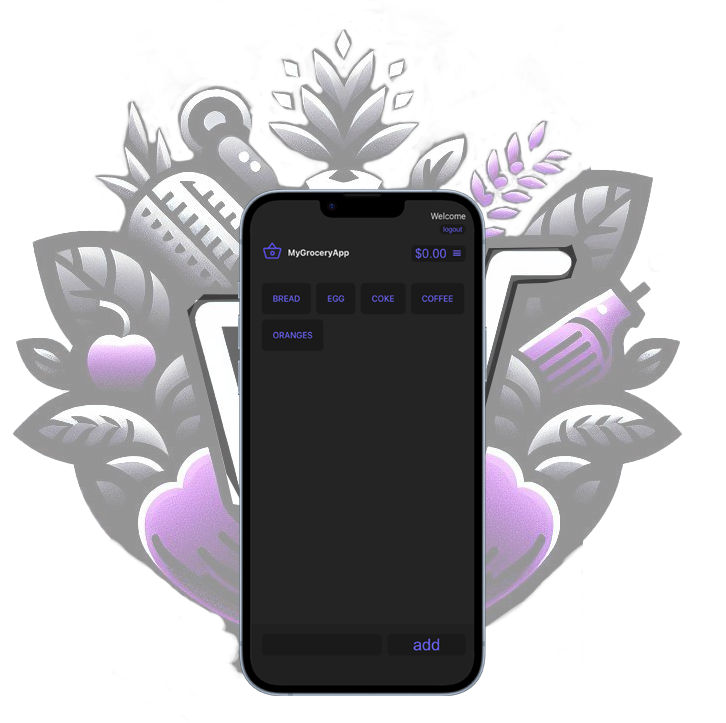
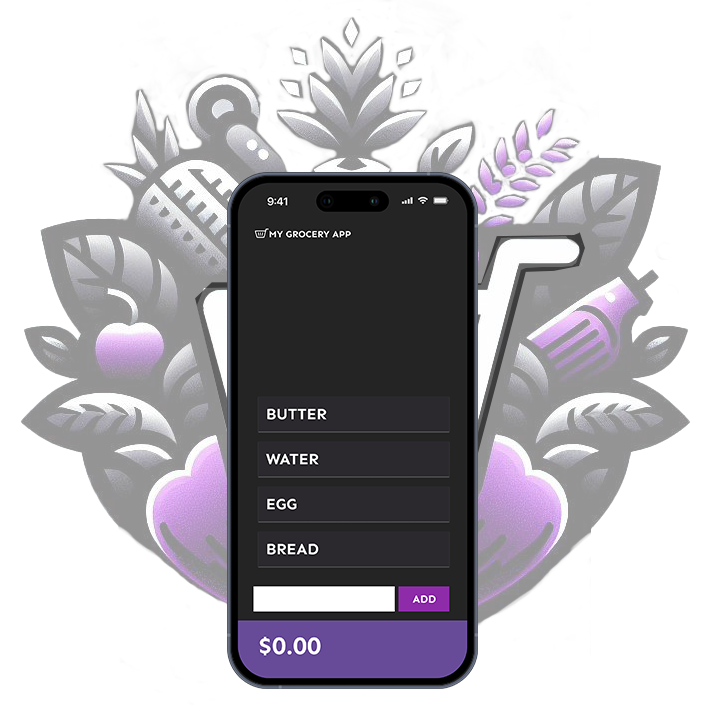
fix contact title and new image hero

diff --git a/.firebase/mygroceryapp-landing/hosting/index.html b/.firebase/mygroceryapp-landing/hosting/index.html
@@ -1,6 +1,6 @@
 <!DOCTYPE html><html lang="en"> <head><meta charset="UTF-8"><meta name="description" content="Astro description"><meta name="viewport" content="width=device-width, initial-scale=1.0, maximum-scale=1.0,user-scalable=0"><link rel="icon" type="image/svg+xml" href="/favicon.svg"><meta name="generator" content="Astro v4.1.1"><meta property="og:title" content="My Grocery App - Sign up for FREE"><meta property="og:type" content="article"><meta property="og:description" content="Simplify your small groceries."><meta property="og:image" content="https://mygroceryapp.ca/share-mygroceryapp.png"><meta property="og:url" content="http://mygroceryapp.ca"><meta name="twitter:card" content="My Grocery App - Simplify your small groceries."><title>My Grocery App</title><!-- MailerLite Universal --><!-- End MailerLite Universal --><!-- Google tag (gtag.js) --><script async src="https://www.googletagmanager.com/gtag/js?id=G-PNJFRG2QJF"></script><link rel="stylesheet" href="/_astro/index.UJHiFlKj.css" />
-<style>dialog[data-astro-cid-bbe6dxrz]::backdrop{background-color:#242424;opacity:.5}html{scroll-behavior:smooth}#back-btn[data-astro-cid-7a7bzblm]{cursor:pointer}
-</style><script type="module" src="/_astro/hoisted.C247LzEo.js"></script></head> <body>  <div class="bg-dark" id="mygroceryapp"> <header class="top-0 z-50 max-w-[1280px] xl:px-0 lg:px-4 m-auto " data-astro-cid-3ef6ksr2> <nav class="flex md:items-start items-center p-6 lg:px-8" aria-label="Global" data-astro-cid-3ef6ksr2> <div class="flex flex-1" data-astro-cid-3ef6ksr2> <a href="/" class="-m-1.5 p-1.5" data-astro-cid-3ef6ksr2> <span class="sr-only" data-astro-cid-3ef6ksr2>My Grocery App</span> <img src="/_astro/mygroceryapp.NL7Jfwwu_Z1AcUbO.webp" class="h-8 w-auto" alt="My Grocery App" data-astro-cid-3ef6ksr2 width="279" height="44" loading="lazy" decoding="async"> </a> </div> <div class="flex md:hidden" data-astro-cid-3ef6ksr2> <button type="button" class="-m-2.5 inline-flex items-center justify-center rounded-md p-2.5 text-gray-700" data-astro-cid-3ef6ksr2> <span class="sr-only" data-astro-cid-3ef6ksr2>Open main menu</span> <svg class="h-6 w-6" fill="none" viewBox="0 0 24 24" stroke-width="1.5" stroke="white" aria-hidden="true" data-astro-cid-3ef6ksr2> <path stroke-linecap="round" stroke-linejoin="round" d="M3.75 6.75h16.5M3.75 12h16.5m-16.5 5.25h16.5" data-astro-cid-3ef6ksr2></path> </svg> </button> </div> <!-- absolute z-20 md:relative md:block hidden top-20 md:top-auto bg-MGA-purple md:bg-transparent md:w-auto w-[200px] h-[200px] md:h-auto --> <div class="fixed hidden md:block md:relative bg-MGA-purple md:bg-transparent z-20 md:h-auto h-screen -top-[170px] md:top-0 md:opacity-100 opacity-80 md:pl-0 md:pr-0 md:py-0 md:mt-0 pl-20 pr-7 py-10 mt-60" id="menu-items" data-astro-cid-3ef6ksr2> <div class="md:flex-row md:text-auto text-right flex flex-col gap-x-12" data-astro-cid-3ef6ksr2> <a href="#about" class="text-xl mb-4 font-semibold leading-6 text-white md:normal-case uppercase" data-astro-cid-3ef6ksr2>About</a> <a href="#how-it-works" class="text-xl mb-4 font-semibold leading-6 text-white md:normal-case uppercase" data-astro-cid-3ef6ksr2>How it works</a> <a href="#roadmap" class="text-xl mb-4 font-semibold leading-6 text-white md:normal-case uppercase" data-astro-cid-3ef6ksr2>Roadmap</a> <a href="#contact" class="text-xl mb-4 font-semibold leading-6 text-white md:normal-case uppercase" data-astro-cid-3ef6ksr2>Contact Us</a> </div> </div> </nav> </header>  <div class="relative mt-10"> <div class="absolute inset-x-0 -top-420 -z-10 transform-gpu overflow-hidden blur-3xl sm:-top-80" aria-hidden="true"> <div class="relative left-[calc(50%-11rem)] aspect-[1155/678] w-[36.125rem] -translate-x-1/2 rotate-[30deg] bg-gradient-to-tr from-[#242424] to-MGA-purple opacity-20 sm:left-[calc(50%)] sm:w-[100rem]" style="clip-path: polygon(100%)"></div> </div> <div class="text-white left-[100px] m-auto lg:w-[1280px]" data-astro-cid-bbe6dxrz> <!-- HERO --> <div class="flex w-11/12 m-auto flex-col-reverse md:flex-row justify-center gap-x-20 md:gap-x-0 lg:gap-x-20" data-astro-cid-bbe6dxrz> <div class="hero-title self-center xl:max-w-[460px] max-w-[370px] md:max-w-[450px] z-10" data-astro-cid-bbe6dxrz> <h1 class="text-MGA-purple text-center md:text-left font-semibold text-3xl md:text-4xl lg:text-5xl uppercase backdrop-blur-sm drop-shadow-sm md:backdrop-none-sm md:drop-shadow-none" data-astro-cid-bbe6dxrz>my grocery app</h1> <p class="font-semibold text-center md:text-left md:text-4xl lg:text-5xl text-3xl" data-astro-cid-bbe6dxrz>simplify your grocery list.</p> <div class="flex mt-20" data-astro-cid-bbe6dxrz> <a href="#" id="action" class="bg-MGA-purple text-white rounded-full px-10 md:px-6 lg:px-10 py-3 mr-5" data-astro-cid-bbe6dxrz>notify me</a> <a href="#how-it-works" class="bg-transparent border-2 border-white rounded-full px-10 md:px-6 lg:px-10 py-3" data-astro-cid-bbe6dxrz>learn more</a> </div> </div> <div class="hero-img m-auto w-8/12 md:w-6/12 lg:w-8/12 min-w-[370px] -mb-20 sm:mb-0 md:w-auto" data-astro-cid-bbe6dxrz> <img src="/_astro/hero.0S95mRDm_Z11voDa.webp" alt="Hero Image" data-astro-cid-bbe6dxrz width="726" height="723" loading="lazy" decoding="async"> </div> </div> </div> <dialog class="notify" data-astro-cid-bbe6dxrz> <!-- <SignUp /> --> <div class="ml-embedded" data-form="pbu5Pf" data-astro-cid-bbe6dxrz></div> </dialog>   <!-- HOW IT WORKS TITLE --><div id="how-it-works" class="flex w-11/12 m-auto justify-center gap-x-20 mt-20"> <div class="how-it-works-title p-4 rounded-lg self-center xl:max-w-[460px] lg:max-w-[360px] mb-2"> <span class="text-white font-semibold text-3xl uppercase">how it works</span> </div> </div> <div class="bg-gradient-to-r mb-20 w-40 m-auto opacity-50 from-indigo-500 via-purple-500 to-pink-500 h-[1px]"></div> <!-- MAKE YOU LIST SECTION --> <div class="flex flex-col md:flex-row w-11/12 m-auto justify-center gap-x-20"> <div class="lg:w-[400px] xl:w-auto"> <img src="/_astro/make-your-list.0VTNucXe_ZdyuPg.webp" class="w-[200px] m-auto" alt="" width="293" height="352" loading="lazy" decoding="async"> </div> <div class="self-center xl:max-w-[460px] max-w-[360px]"> <h2 class="text-MGA-purple text-center md:text-left font-semibold text-3xl xl:text-4xl uppercase">make a list</h2> <p class="font-semibold text-center md:text-left text-white xl:text-4xl text-3xl">Add all your essential ingredients for your next culinary adventure or essential stock up!
+<style>dialog[data-astro-cid-bbe6dxrz]::backdrop{background-color:#242424;opacity:.5}html{scroll-behavior:smooth}#back-btn[data-astro-cid-7a7bzblm]{cursor:pointer}footer[data-astro-cid-sz7xmlte] a[data-astro-cid-sz7xmlte]{z-index:10}
+</style><script type="module" src="/_astro/hoisted.C247LzEo.js"></script></head> <body>  <div class="bg-dark" id="mygroceryapp"> <header class="top-0 z-50 max-w-[1280px] xl:px-0 lg:px-4 m-auto " data-astro-cid-3ef6ksr2> <nav class="flex md:items-start items-center p-6 lg:px-8" aria-label="Global" data-astro-cid-3ef6ksr2> <div class="flex flex-1" data-astro-cid-3ef6ksr2> <a href="/" class="-m-1.5 p-1.5" data-astro-cid-3ef6ksr2> <span class="sr-only" data-astro-cid-3ef6ksr2>My Grocery App</span> <img src="/_astro/mygroceryapp.NL7Jfwwu_Z1AcUbO.webp" class="h-8 w-auto" alt="My Grocery App" data-astro-cid-3ef6ksr2 width="279" height="44" loading="lazy" decoding="async"> </a> </div> <div class="flex md:hidden" data-astro-cid-3ef6ksr2> <button type="button" class="-m-2.5 inline-flex items-center justify-center rounded-md p-2.5 text-gray-700" data-astro-cid-3ef6ksr2> <span class="sr-only" data-astro-cid-3ef6ksr2>Open main menu</span> <svg class="h-6 w-6" fill="none" viewBox="0 0 24 24" stroke-width="1.5" stroke="white" aria-hidden="true" data-astro-cid-3ef6ksr2> <path stroke-linecap="round" stroke-linejoin="round" d="M3.75 6.75h16.5M3.75 12h16.5m-16.5 5.25h16.5" data-astro-cid-3ef6ksr2></path> </svg> </button> </div> <!-- absolute z-20 md:relative md:block hidden top-20 md:top-auto bg-MGA-purple md:bg-transparent md:w-auto w-[200px] h-[200px] md:h-auto --> <div class="fixed hidden md:block md:relative bg-MGA-purple md:bg-transparent z-20 md:h-auto h-screen -top-[170px] md:top-0 md:opacity-100 opacity-80 md:pl-0 md:pr-0 md:py-0 md:mt-0 pl-20 pr-7 py-10 mt-60" id="menu-items" data-astro-cid-3ef6ksr2> <div class="md:flex-row md:text-auto text-right flex flex-col gap-x-12" data-astro-cid-3ef6ksr2> <a href="#about" class="text-xl mb-4 font-semibold leading-6 text-white md:normal-case uppercase" data-astro-cid-3ef6ksr2>About</a> <a href="#how-it-works" class="text-xl mb-4 font-semibold leading-6 text-white md:normal-case uppercase" data-astro-cid-3ef6ksr2>How it works</a> <a href="#roadmap" class="text-xl mb-4 font-semibold leading-6 text-white md:normal-case uppercase" data-astro-cid-3ef6ksr2>Roadmap</a> <a href="#contact" class="text-xl mb-4 font-semibold leading-6 text-white md:normal-case uppercase" data-astro-cid-3ef6ksr2>Contact Us</a> </div> </div> </nav> </header>  <div class="relative mt-10"> <div class="absolute inset-x-0 -top-420 -z-10 transform-gpu overflow-hidden blur-3xl sm:-top-80" aria-hidden="true"> <div class="relative left-[calc(50%-11rem)] aspect-[1155/678] w-[36.125rem] -translate-x-1/2 rotate-[30deg] bg-gradient-to-tr from-[#242424] to-MGA-purple opacity-20 sm:left-[calc(50%)] sm:w-[100rem]" style="clip-path: polygon(100%)"></div> </div> <div class="text-white left-[100px] m-auto lg:w-[1280px]" data-astro-cid-bbe6dxrz> <!-- HERO --> <div class="flex w-11/12 m-auto flex-col-reverse md:flex-row justify-center gap-x-20 md:gap-x-0 lg:gap-x-20" data-astro-cid-bbe6dxrz> <div class="hero-title self-center xl:max-w-[460px] max-w-[370px] md:max-w-[450px] z-10" data-astro-cid-bbe6dxrz> <h1 class="text-MGA-purple text-center md:text-left font-semibold text-3xl md:text-4xl lg:text-5xl uppercase backdrop-blur-sm drop-shadow-sm md:backdrop-none-sm md:drop-shadow-none" data-astro-cid-bbe6dxrz>my grocery app</h1> <p class="font-semibold text-center md:text-left md:text-4xl lg:text-5xl text-3xl" data-astro-cid-bbe6dxrz>simplify your grocery list.</p> <div class="flex mt-20" data-astro-cid-bbe6dxrz> <button id="action" class="bg-MGA-purple text-white rounded-full px-10 md:px-6 lg:px-10 py-3 mr-5" data-astro-cid-bbe6dxrz>notify me</button> <a href="#how-it-works" class="bg-transparent border-2 border-white rounded-full px-10 md:px-6 lg:px-10 py-3" data-astro-cid-bbe6dxrz>learn more</a> </div> </div> <div class="hero-img m-auto w-8/12 md:w-6/12 lg:w-8/12 min-w-[370px] -mb-20 sm:mb-0 md:w-auto" data-astro-cid-bbe6dxrz> <img src="/_astro/hero.0S95mRDm_Z11voDa.webp" alt="Cellphone with grocery elements in the background" data-astro-cid-bbe6dxrz width="726" height="723" loading="lazy" decoding="async"> </div> </div> </div> <dialog class="notify" data-astro-cid-bbe6dxrz> <!-- <SignUp /> --> <div class="ml-embedded" data-form="pbu5Pf" data-astro-cid-bbe6dxrz></div> </dialog>   <!-- HOW IT WORKS TITLE --><div id="how-it-works" class="flex w-11/12 m-auto justify-center gap-x-20 mt-20"> <div class="how-it-works-title p-4 rounded-lg self-center xl:max-w-[460px] lg:max-w-[360px] mb-2"> <span class="text-white font-semibold text-3xl uppercase">how it works</span> </div> </div> <div class="bg-gradient-to-r mb-20 w-40 m-auto opacity-50 from-indigo-500 via-purple-500 to-pink-500 h-[1px]"></div> <!-- MAKE YOU LIST SECTION --> <div class="flex flex-col md:flex-row w-11/12 m-auto justify-center gap-x-20"> <div class="lg:w-[400px] xl:w-auto"> <img src="/_astro/make-your-list.0VTNucXe_ZdyuPg.webp" class="w-[200px] m-auto" alt="" width="293" height="352" loading="lazy" decoding="async"> </div> <div class="self-center xl:max-w-[460px] max-w-[360px]"> <h2 class="text-MGA-purple text-center md:text-left font-semibold text-3xl xl:text-4xl uppercase">make a list</h2> <p class="font-semibold text-center md:text-left text-white xl:text-4xl text-3xl">Add all your essential ingredients for your next culinary adventure or essential stock up!
 </p> </div> </div> <!-- YOU IN CONTROL SECTION --> <div class="flex mt-20 flex-col-reverse md:flex-row w-11/12 m-auto justify-center gap-x-20"> <div class="self-center xl:max-w-[460px] max-w-[360px]"> <h2 class="text-MGA-purple text-center md:text-left font-semibold text-3xl xl:text-4xl uppercase">be in control</h2> <p class="font-semibold text-center md:text-left text-white xl:text-4xl text-3xl">Validate item prices while shopping to monitor your spending.</p> </div> <div class="lg:w-[400px] xl:w-auto"> <img src="/_astro/you-in-control.ST2QwU07_Z1sQPXp.webp" decoding="async" loading="lazy" class="w-[200px] m-auto" alt="You in Control" width="433" height="466"> </div> </div> <!-- SAVE MONEY SECTION --> <div class="flex w-11/12 mt-20 flex-col md:flex-row m-auto justify-center gap-x-20"> <div class="lg:w-[400px] xl:w-auto"> <img src="/_astro/save-money.TgmwQp6z_Z298h7f.webp" class="w-[200px] m-auto" alt="" width="342" height="436" loading="lazy" decoding="async"> </div> <div class="self-center xl:max-w-[460px] max-w-[360px]"> <h2 class="text-MGA-purple text-center md:text-left font-semibold text-3xl xl:text-4xl uppercase">save $</h2> <p class="font-semibold text-center md:text-left text-white xl:text-4xl text-3xl">
 Watch your spending and track prices over time!
 <br><br>
@@ -14,4 +14,4 @@ Currently, the web app is in beta; being available for mobile in the future. <a 
 Say goodbye to complexity!
 <br><br> <a href="#contact" class="text-sm md:text-xl bg-MGA-purple text-black rounded-full text-white md:px-10 px-5 md:px-6 lg:px-10 py-3 mr-5">Have questions or suggestions?</a> </p> </div> </div> <!-- ROADMAP TITLE --><div id="roadmap" class="flex w-11/12 m-auto justify-center gap-x-20 mt-20"> <div class="how-it-works-title p-4 rounded-lg self-center xl:max-w-[460px] lg:max-w-[360px] mb-2"> <span class="text-white font-semibold text-3xl uppercase">Roadmap</span> </div> </div> <div class="bg-gradient-to-r mb-20 w-40 m-auto opacity-50 from-indigo-500 via-purple-500 to-pink-500 h-[1px]"></div> <!-- ROADMAP SECTION --> <div class="flex w-11/12 m-auto justify-center gap-x-20"> <div class="hero-title self-center"> <p class="font-semibold text-white xl:text-2xl lg:text-xl"></p><ul> <li> <div class="flex relative"> <span class="w-px h-4 bg-white left-7 top-9 absolute">&nbsp;</span> <div class="flex flex-row"> <div class="bg-[#5C5470] w-14 h-7 pt-[3px] pl-3 rounded-full">2024</div> <div class="text-white ml-3 mt-1 ">Public Release</div> </div> </div> </li> <li class="mt-8"> <div class="flex relative"> <span class="w-px h-4 bg-white left-7 top-9 absolute">&nbsp;</span> <div class="flex flex-row"> <div class="bg-[#5C5470] w-14 h-7 pt-[3px] pl-3 rounded-full">2024</div> <div class="text-white ml-3 mt-1 ">Beta Open for iOS and Android</div> </div> </div> </li> <li class="mt-8"> <div class="flex relative"> <span class="w-px h-4 bg-white left-7 top-9 absolute">&nbsp;</span> <div class="flex flex-row"> <div class="bg-[#9EC8B9] w-14 h-7 pt-[3px] pl-3 rounded-full">2024</div> <div class="text-white ml-3 mt-1 ">Registration for Web App Beta</div> </div> </div> </li> <li class="mt-8"> <div class="flex relative"> <span class="w-px h-4 bg-white left-7 top-9 absolute">&nbsp;</span> <div class="flex flex-row"> <div class="bg-[#9EC8B9] w-14 h-7 pt-[3px] pl-3 rounded-full">2023</div> <div class="text-white ml-3 mt-1 ">Prototype Tests Ended</div> </div> </div> </li> <li class="mt-8"> <div class="flex relative"> <span class="w-px h-4 bg-white left-7 top-9 absolute">&nbsp;</span> <div class="flex flex-row"> <div class="bg-[#9EC8B9] w-14 h-7 pt-[3px] pl-3 rounded-full">2023</div> <div class="text-white ml-3 mt-1 ">Prototype Done</div> </div> </div> </li> <li class="mt-8"> <div class="flex relative"> <span class="w-px h-4 bg-white left-7 top-9 absolute">&nbsp;</span> <div class="flex flex-row"> <div class="bg-[#9EC8B9] w-14 h-7 pt-[3px] pl-3 rounded-full">2022</div> <div class="text-white ml-3 mt-1 ">Wireframes Done</div> </div> </div> </li> <li class="mt-8"> <div class="flex relative"> <div class="flex flex-row"> <div class="bg-[#9EC8B9] w-14 h-7 pt-[3px] pl-3 rounded-full">2022</div> <div class="text-white ml-3 mt-1 ">Research</div> </div> </div> </li> </ul>  </div> </div> <!-- CONTACT TITLE --><div id="contact" class="flex w-11/12 m-auto justify-center gap-x-20 mt-20"> <div class="how-it-works-title p-4 rounded-lg self-center xl:max-w-[460px] lg:max-w-[360px] mb-2"> <span class="text-white font-semibold text-3xl uppercase">Contact Us</span> </div> </div> <div class="bg-gradient-to-r mb-20 w-40 m-auto opacity-50 from-indigo-500 via-purple-500 to-pink-500 h-[1px]"></div> <script src="https://web3forms.com/client/script.js" async defer></script> <div class="flex items-center min-h-screen md:-mt-[350px] -mt-[90px] md:-mb-[300px] -mb-[100px]"> <div class="container mx-auto"> <div class="max-w-md mx-auto my-10 p-5 rounded-md shadow-sm"> <div class="m-7"> <form action="https://api.web3forms.com/submit" method="POST" id="form"> <input type="hidden" name="access_key" value="f04ef84e-0fe0-4f77-bd08-f88047fbcaa4"> <input type="hidden" name="subject" value="New Submission from your Website"> <input type="checkbox" name="botcheck" id="" style="display: none;"> <div class="mb-6"> <label for="name" class="block mb-2 text-sm text-white">Full Name</label> <input type="text" name="name" id="name" placeholder="First and Last Name" required class="w-full px-3 py-2 placeholder-gray-300 border border-gray-300 rounded-md focus:outline-none focus:ring focus:ring-indigo-100 focus:border-indigo-300 dark:bg-gray-700 dark:text-white dark:placeholder-gray-500 dark:border-gray-600 dark:focus:ring-gray-900 dark:focus:border-gray-500"> </div> <div class="mb-6"> <label for="email" class="block mb-2 text-sm text-white">Email Address</label> <input type="email" name="email" id="email" placeholder="you@company.com" required class="w-full px-3 py-2 placeholder-gray-300 border border-gray-300 rounded-md focus:outline-none focus:ring focus:ring-indigo-100 focus:border-indigo-300 dark:bg-gray-700 dark:text-white dark:placeholder-gray-500 dark:border-gray-600 dark:focus:ring-gray-900 dark:focus:border-gray-500"> </div> <div class="mb-6"> <label for="phone" class="text-sm text-white">Phone Number</label> <input type="text" name="phone" id="phone" placeholder="+1 (555) 1234-567" required class="w-full px-3 py-2 placeholder-gray-300 border border-gray-300 rounded-md focus:outline-none focus:ring focus:ring-indigo-100 focus:border-indigo-300 dark:bg-gray-700 dark:text-white dark:placeholder-gray-500 dark:border-gray-600 dark:focus:ring-gray-900 dark:focus:border-gray-500"> </div> <div class="mb-6"> <label for="message" class="block mb-2 text-white">Your Message</label> <textarea rows="5" name="message" id="message" placeholder="Your Message" class="w-full px-3 py-2 placeholder-gray-300 border border-gray-300 rounded-md focus:outline-none focus:ring focus:ring-indigo-100 focus:border-indigo-300 dark:bg-gray-700 dark:text-white dark:placeholder-gray-500 dark:border-gray-600 dark:focus:ring-gray-900 dark:focus:border-gray-500" required></textarea> </div> <div class="mb-6"> <div id="g-captcha" class="h-captcha hidden" data-captcha="true"></div> </div> <div class="mb-6"> <button type="submit" class="w-full px-3 py-4 text-white bg-indigo-500 rounded-md focus:bg-indigo-600 focus:outline-none">
 Send Message
-</button> </div> <p class="text-base text-center text-gray-500" id="result"></p> </form> </div> </div> </div> </div>  <div class="absolute inset-x-0 top-[calc(100%-13rem)] -z-10 transform-gpu overflow-hidden blur-3xl sm:top-[calc(100%-70rem)]" aria-hidden="true"> <div class="relative left-[calc(20%-11rem)] aspect-[1155/678] w-[36.125rem] -translate-x-1/2 rotate-[240deg] bg-gradient-to-tr from-[#242424] to-MGA-purple opacity-20 sm:w-[100rem]" style="clip-path: polygon(100%)"></div> </div> </div> </div> <footer class="top-0 z-50 mt-40 w-full xl:px-0 lg:px-4 m-auto "> <div class="flex m-auto justify-center"> <a href="#" class="-m-1.5 p-1.5"> <span class="sr-only">My Grocery App</span> <img src="/_astro/mygroceryapp.NL7Jfwwu_Z1AcUbO.webp" class="h-8 w-auto" alt="My Grocery App" width="279" height="44" loading="lazy" decoding="async"> </a> </div> </footer> <div id="back-btn" class="hidden fixed p-4 text-white bottom-10 right-10 bg-MGA-purple" data-astro-cid-7a7bzblm>^</div>    </body></html> 
+</button> </div> <p class="text-base text-center text-gray-500" id="result"></p> </form> </div> </div> </div> </div>  <div class="absolute inset-x-0 top-[calc(100%-13rem)] -z-10 transform-gpu overflow-hidden blur-3xl sm:top-[calc(100%-70rem)]" aria-hidden="true"> <div class="relative left-[calc(20%-11rem)] aspect-[1155/678] w-[36.125rem] -translate-x-1/2 rotate-[240deg] bg-gradient-to-tr from-[#242424] to-MGA-purple opacity-20 sm:w-[100rem]" style="clip-path: polygon(100%)"></div> </div> </div> </div> <footer class="top-0 z-50 mt-40 w-full xl:px-0 lg:px-4 m-auto " data-astro-cid-sz7xmlte> <div class="flex m-auto justify-center" data-astro-cid-sz7xmlte> <a href="/" class="-m-1.5 p-1.5" data-astro-cid-sz7xmlte> <span class="sr-only" data-astro-cid-sz7xmlte>My Grocery App</span> <img src="/_astro/mygroceryapp.NL7Jfwwu_Z1AcUbO.webp" class="h-8 w-auto" alt="My Grocery App" data-astro-cid-sz7xmlte width="279" height="44" loading="lazy" decoding="async"> </a> </div> </footer>  <div id="back-btn" class="hidden fixed p-4 text-white bottom-10 right-10 bg-MGA-purple" data-astro-cid-7a7bzblm>^</div>    </body></html> 
